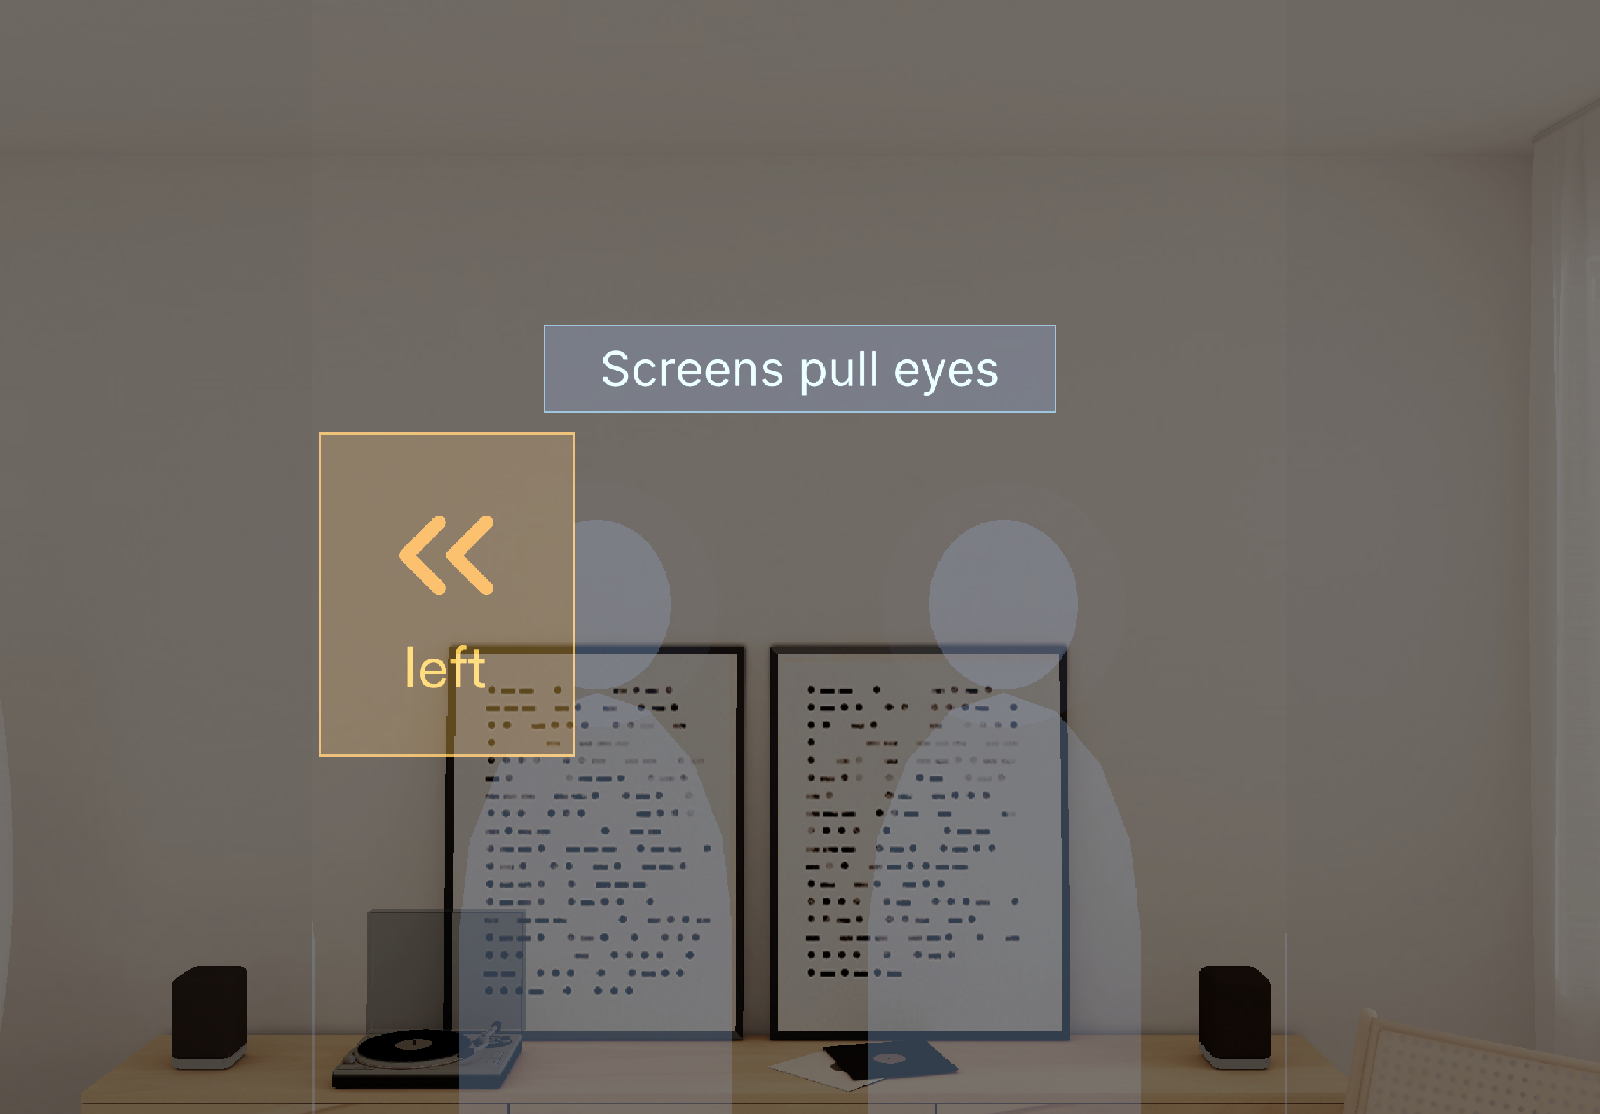
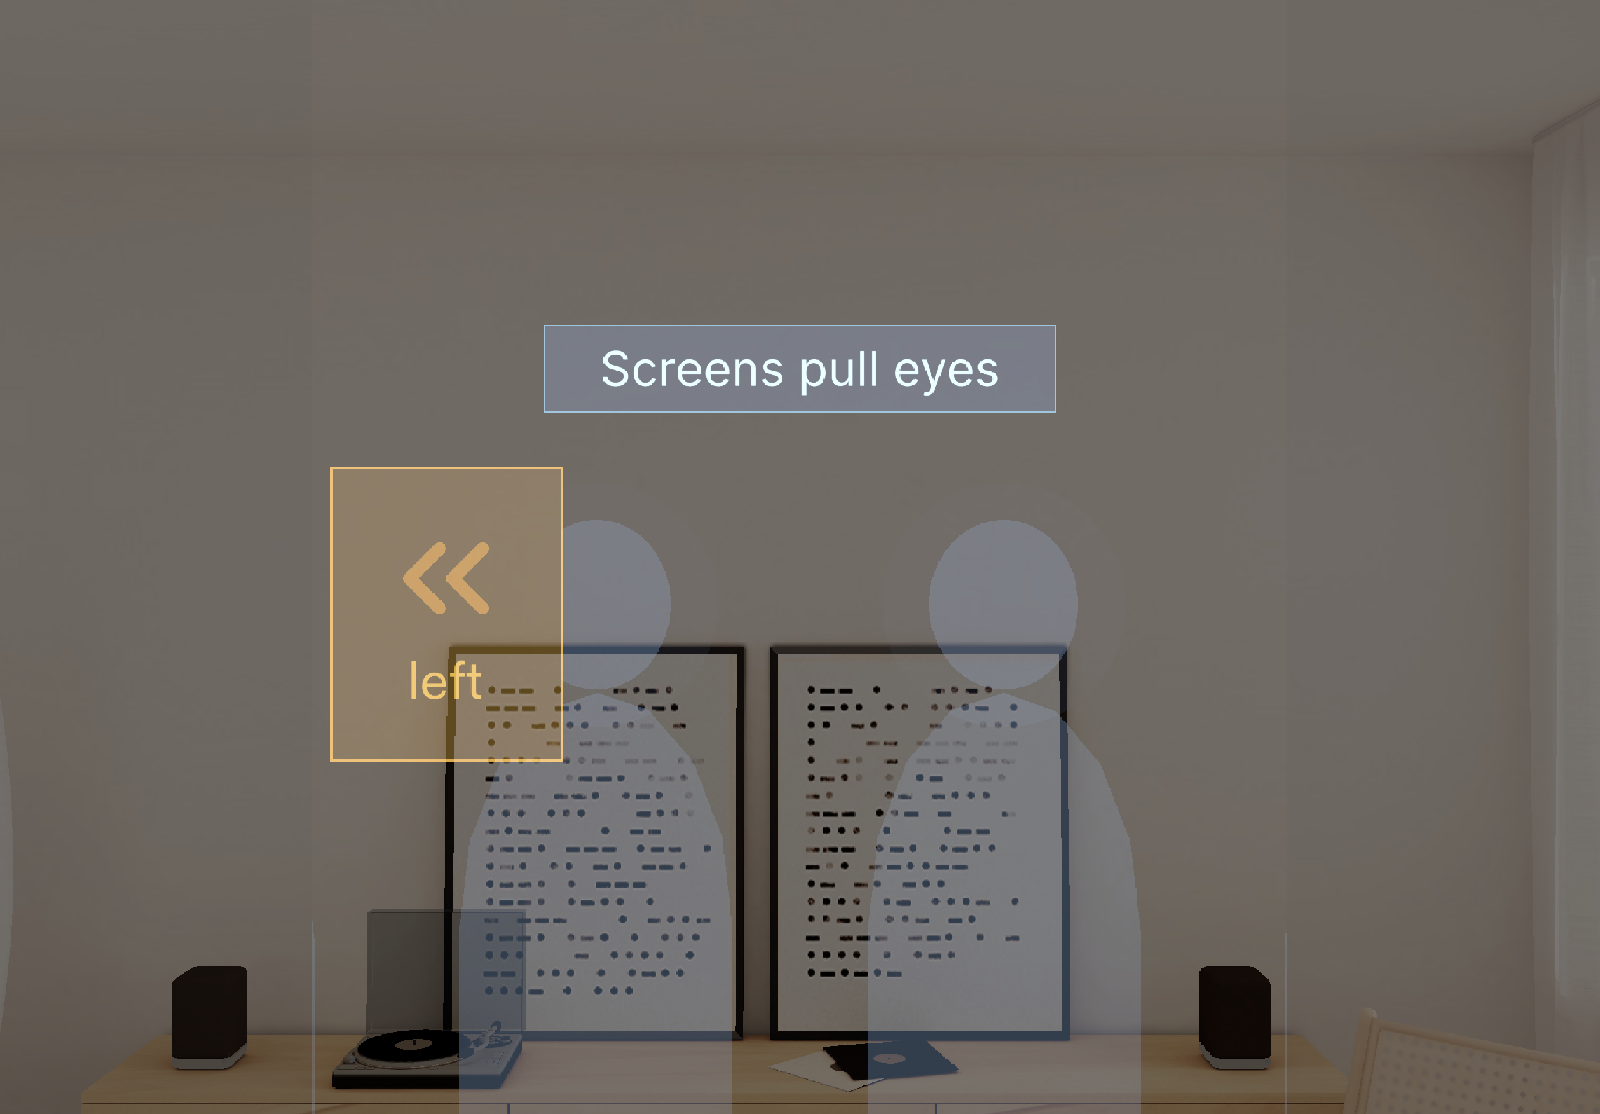
fix: nudge chevron never overlaps the podium or cue card (projected placement rule), rebuild live demo video

Changed region(s): [[0.1875, 0.3662, 0.375, 0.702], [0.25, 0.4578, 0.3125, 0.5494], [0.25, 0.5799, 0.3125, 0.6409]]

diff --git a/Assets/Scripts/EyesUpApp.ts b/Assets/Scripts/EyesUpApp.ts
@@ -21,12 +21,13 @@ import { CueCardView } from './CueCardController';
 import { getDeck } from './DeckData';
 import { chevronAlpha, chevronPulse } from './NudgeController';
 import { CameraGazeProvider, ScriptedGazeProvider, SwitchableGazeProvider } from './GazeProvider';
-import { Podium } from './Podium';
+import { PODIUM_H_CM, PODIUM_W_CM, Podium } from './Podium';
 import { SetupPanel } from './SetupPanel';
 import { StageLayout } from './StagePlacer';
 import { SummaryPanel } from './SummaryPanel';
 import { AudienceView, EyesUpSession, SessionViews } from './core/EyesUpSession';
 import { PillRect } from './core/PillHit';
+import { ChevronBox, PlaneRect, placeChevron } from './core/ChevronPlacement';
 import { podiumState } from './core/PodiumModel';
 import { Vec3Like } from './core/math';
 import { ACCENT_CYAN, BOX_AMBER, addIcon, addSurface, child, faceTowards } from './EyesUpUI';
@@ -46,6 +47,16 @@ const CHEVRON_BACK_Y = 4.2;
 const CHEVRON_X_CM = 21;
 /** Round 7: hint dropped this far so the backing's top edge sits below the pill's bottom edge. */
 const CHEVRON_DROP_CM = 6.5;
+/** Hint plane: the chevron is head-locked 100 cm ahead; panels are projected into that plane for placement. */
+const CHEVRON_PLANE_CM = 100;
+/** Clear gap kept between the chevron backing and any panel (cm in the plane). */
+const CHEVRON_PANEL_MARGIN_CM = 1.5;
+/** Backing extents about the hint origin at the largest pulse scale (1.05). */
+const CHEVRON_BOX: ChevronBox = {
+  halfW: (CHEVRON_BACK_W / 2) * 1.05,
+  below: (CHEVRON_BACK_H / 2 - CHEVRON_BACK_Y) * 1.05,
+  above: (CHEVRON_BACK_H / 2 + CHEVRON_BACK_Y) * 1.05,
+};
 const CHEVRON_TEXT = new vec4(1.0, 0.82, 0.35, 1);
 /** ≈ 1.5 cm caption at 100 cm (S3: "left" 1.5 cm). */
 const CHEVRON_CAPTION_SIZE = 150;
@@ -135,6 +146,8 @@ export class EyesUpApp extends BaseScriptComponent {
   private hintAge = 0;
   private hintTexts: [Text | null, Text | null] = [null, null];
   private hintIcons: [Image | null, Image | null] = [null, null];
+  private hintBase: [vec3, vec3] = [new vec3(0, 0, 0), new vec3(0, 0, 0)];
+  private hintHidden: [boolean, boolean] = [false, false];
   private hintColors: [vec4, vec4] = [new vec4(1, 1, 1, 1), new vec4(1, 1, 1, 1)];
 
   onAwake(): void {
@@ -143,7 +156,8 @@ export class EyesUpApp extends BaseScriptComponent {
     [this.edgeHintLeft, this.edgeHintRight].forEach((so, i) => {
       if (!so) return;
       const hp = so.getTransform().getLocalPosition();
-      so.getTransform().setLocalPosition(new vec3((i === 0 ? -1 : 1) * CHEVRON_X_CM, hp.y - CHEVRON_DROP_CM, hp.z));
+      this.hintBase[i] = new vec3((i === 0 ? -1 : 1) * CHEVRON_X_CM, hp.y - CHEVRON_DROP_CM, hp.z);
+      so.getTransform().setLocalPosition(this.hintBase[i]);
       const t = so.getComponent('Component.Text') as Text;
       if (t) {
         t.text = i === 0 ? 'left' : 'right';
@@ -305,6 +319,8 @@ export class EyesUpApp extends BaseScriptComponent {
     const p = chevronPulse(this.hintAge);
     hints.forEach((so, i) => {
       if (!so || !so.enabled) return;
+      this.placeHint(so, i);
+      if (this.hintHidden[i]) return;
       const t = this.hintTexts[i];
       const c = this.hintColors[i];
       const a = chevronAlpha(p);
@@ -315,6 +331,55 @@ export class EyesUpApp extends BaseScriptComponent {
       const s = 0.9 + 0.15 * p;
       so.getTransform().setLocalScale(new vec3(s, s, s));
     });
+  }
+
+  /** World-space rect (corners via `host`'s transform) projected into the chevron's view plane, or null if behind the camera. */
+  private projectRect(host: SceneObject, cx: number, cy: number, halfW: number, halfH: number): PlaneRect | null {
+    const wt = host.getTransform().getWorldTransform();
+    const inv = this.camera.getTransform().getInvertedWorldTransform();
+    let r: PlaneRect | null = null;
+    for (const [dx, dy] of [[-1, -1], [1, -1], [1, 1], [-1, 1]]) {
+      const p = inv.multiplyPoint(wt.multiplyPoint(new vec3(cx + dx * halfW, cy + dy * halfH, 0)));
+      if (p.z > -5) return null;
+      const k = CHEVRON_PLANE_CM / -p.z;
+      const x = p.x * k;
+      const y = p.y * k;
+      r = r ? { minX: Math.min(r.minX, x), maxX: Math.max(r.maxX, x), minY: Math.min(r.minY, y), maxY: Math.max(r.maxY, y) } : { minX: x, maxX: x, minY: y, maxY: y };
+    }
+    return r;
+  }
+
+  /** Keep the head-locked chevron clear of the podium and the cue card (core/ChevronPlacement.ts). */
+  private placeHint(so: SceneObject, i: number): void {
+    const panels: PlaneRect[] = [];
+    const podiumRoot = this.podium.getSceneObject();
+    if (podiumRoot.enabled) {
+      const r = this.projectRect(podiumRoot, 0, 0, PODIUM_W_CM / 2, PODIUM_H_CM / 2);
+      if (r) panels.push(r);
+    }
+    if (this.cueCard.enabled) {
+      const asPill = !!this.pillBg && this.pillBg.enabled && this.pillWidth > 0;
+      const r = asPill
+        ? this.projectRect(this.cueCard, 0, PILL_Y, this.pillWidth / 2, PILL_H / 2)
+        : this.projectRect(this.cueCard, 0, CARD_CENTER_Y, CARD_W / 2, CARD_H / 2);
+      if (r) panels.push(r);
+    }
+    const cam = this.camera.getComponent('Component.Camera') as Camera;
+    const halfH = CHEVRON_PLANE_CM * Math.tan(cam.fov / 2);
+    const base = this.hintBase[i];
+    const spot = placeChevron(
+      i === 0 ? 'left' : 'right',
+      { x: base.x, y: base.y },
+      CHEVRON_BOX,
+      panels,
+      { margin: CHEVRON_PANEL_MARGIN_CM, viewHalfW: halfH * cam.aspect, viewHalfH: halfH },
+    );
+    this.hintHidden[i] = spot === null;
+    if (spot === null) {
+      so.getTransform().setLocalScale(new vec3(0, 0, 0));
+      return;
+    }
+    so.getTransform().setLocalPosition(new vec3(spot.x, spot.y, base.z));
   }
 
   /**

diff --git a/Assets/Scripts/core/ChevronPlacement.ts b/Assets/Scripts/core/ChevronPlacement.ts
@@ -1,0 +1,102 @@
+/**
+ * ChevronPlacement.ts — where the amber nudge chevron sits so it never covers a panel.
+ *
+ * The chevron is head-locked (a child of the camera), so everything is measured in the camera's
+ * view plane, in cm at the chevron's own distance (100 cm ahead): +x right, +y up. Panels (podium,
+ * cue card) are projected into that plane by the Lens adapter and arrive here as plain rects.
+ * Rule: keep the base spot (view edge, per the artifact S3 mockup) when it is clear; otherwise slide
+ * outward toward the view edge; otherwise move above, then below, the blocking panels; if none of
+ * that fits inside the view, return null (the chime still plays, no chevron is drawn over a panel).
+ */
+export type Side = 'left' | 'right';
+
+export interface PlaneRect {
+  minX: number;
+  maxX: number;
+  minY: number;
+  maxY: number;
+}
+
+/** Chevron backing relative to the hint origin (cm, at its largest pulse scale). */
+export interface ChevronBox {
+  halfW: number;
+  below: number;
+  above: number;
+}
+
+export interface PlacementOptions {
+  /** Clear gap kept between the chevron backing and any panel. */
+  margin: number;
+  /** Half extent of the visible plane (cm): the backing must stay inside it. */
+  viewHalfW: number;
+  viewHalfH: number;
+}
+
+export interface PlacementResult {
+  x: number;
+  y: number;
+}
+
+function boxRect(x: number, y: number, b: ChevronBox, pad: number): PlaneRect {
+  return { minX: x - b.halfW - pad, maxX: x + b.halfW + pad, minY: y - b.below - pad, maxY: y + b.above + pad };
+}
+
+/** Edges that touch within this tolerance (cm) are not an overlap: candidates are built to sit exactly on the margin. */
+const EPS = 1e-6;
+
+export function rectsOverlap(a: PlaneRect, b: PlaneRect): boolean {
+  return a.minX < b.maxX - EPS && a.maxX > b.minX + EPS && a.minY < b.maxY - EPS && a.maxY > b.minY + EPS;
+}
+
+function inView(x: number, y: number, b: ChevronBox, o: PlacementOptions): boolean {
+  const r = boxRect(x, y, b, 0);
+  return r.minX >= -o.viewHalfW && r.maxX <= o.viewHalfW && r.minY >= -o.viewHalfH && r.maxY <= o.viewHalfH;
+}
+
+/** True when the chevron backing at (x, y) is clear of every panel by `margin` and inside the view. */
+export function isClear(x: number, y: number, b: ChevronBox, panels: readonly PlaneRect[], o: PlacementOptions): boolean {
+  if (!inView(x, y, b, o)) return false;
+  const r = boxRect(x, y, b, o.margin);
+  return !panels.some((p) => rectsOverlap(r, p));
+}
+
+/** Hint origin for `side`, starting at `base` (|x| = view-edge spot, y); null = no clear spot. */
+export function placeChevron(
+  side: Side,
+  base: PlacementResult,
+  b: ChevronBox,
+  allPanels: readonly PlaneRect[],
+  o: PlacementOptions,
+): PlacementResult | null {
+  const sign = side === 'left' ? -1 : 1;
+  const bx = sign * Math.abs(base.x);
+  // Panels outside the visible plane (e.g. the podium while looking up) cannot collide.
+  const view: PlaneRect = { minX: -o.viewHalfW, maxX: o.viewHalfW, minY: -o.viewHalfH, maxY: o.viewHalfH };
+  const panels = allPanels.filter((p) => rectsOverlap(p, view));
+  if (isClear(bx, base.y, b, panels, o)) return { x: bx, y: base.y };
+
+  // Candidates: slide outward past the panels beside the chevron, or go above / below all panels.
+  const candidates: PlacementResult[] = [];
+  let outer = Math.abs(bx);
+  for (const p of panels) {
+    const edge = sign < 0 ? -p.minX : p.maxX;
+    if (edge + o.margin + b.halfW > outer && p.maxY + o.margin > base.y - b.below && p.minY - o.margin < base.y + b.above) {
+      outer = edge + o.margin + b.halfW;
+    }
+  }
+  candidates.push({ x: sign * outer, y: base.y });
+  candidates.push({ x: bx, y: Math.max(...panels.map((p) => p.maxY)) + o.margin + b.below });
+  candidates.push({ x: bx, y: Math.min(...panels.map((p) => p.minY)) - o.margin - b.above });
+
+  // The clear candidate that moves the chevron least.
+  let best: PlacementResult | null = null;
+  let bestDist = Infinity;
+  for (const c of candidates) {
+    const d = Math.hypot(c.x - bx, c.y - base.y);
+    if (d < bestDist && isClear(c.x, c.y, b, panels, o)) {
+      best = c;
+      bestDist = d;
+    }
+  }
+  return best;
+}

diff --git a/tests/unit/ChevronPlacement.test.ts b/tests/unit/ChevronPlacement.test.ts
@@ -1,0 +1,81 @@
+import { ChevronBox, PlacementOptions, PlaneRect, isClear, placeChevron } from '../../Assets/Scripts/core/ChevronPlacement';
+
+// Same numbers as EyesUpApp: backing 15 x 19 cm, 4.2 cm above the hint origin; hint base x = 21, y = -6.5.
+const BOX: ChevronBox = { halfW: 7.9, below: 5.6, above: 14.5 };
+const BASE = { x: 21, y: -6.5 };
+const WIDE: PlacementOptions = { margin: 1.5, viewHalfW: 62, viewHalfH: 62 };
+const NARROW: PlacementOptions = { margin: 1.5, viewHalfW: 33, viewHalfH: 25 };
+
+// Podium 34 x 11 cm at 55 cm, projected to the 100 cm plane: 62 x 20 cm, centered in view.
+const PODIUM: PlaneRect = { minX: -31, maxX: 31, minY: -10, maxY: 10 };
+
+describe('placeChevron', () => {
+  it('regression: centered pill in a narrow view (aspect 0.875) steps down just clear of the pill', () => {
+    const pill: PlaneRect = { minX: -15.23, maxX: 15.23, minY: 8.6, maxY: 13.8 };
+    const podiumOffscreen: PlaneRect = { minX: -32.5, maxX: 32.5, minY: -66.5, maxY: -43.7 };
+    const dims: PlacementOptions = { margin: 1.5, viewHalfW: 28.9, viewHalfH: 33.06 };
+    for (const side of ['left', 'right'] as const) {
+      const r = placeChevron(side, BASE, BOX, [podiumOffscreen, pill], dims)!;
+      expect(r).not.toBeNull();
+      expect(Math.abs(r.x)).toBeCloseTo(21, 5);
+      expect(r.y).toBeLessThan(-6.5);
+      expect(r.y).toBeGreaterThan(-9);
+      expect(isClear(r.x, r.y, BOX, [pill], dims)).toBe(true);
+    }
+  });
+
+
+  it('regression: a centered pill (15.2 x 5.2 cm in the plane) pushes the chevron out, not away (no float tie)', () => {
+    const pill: PlaneRect = { minX: -15.2, maxX: 15.2, minY: 8.6, maxY: 13.8 };
+    const dims: PlacementOptions = { margin: 1.5, viewHalfW: 33.1, viewHalfH: 33.1 };
+    for (const side of ['left', 'right'] as const) {
+      const r = placeChevron(side, BASE, BOX, [pill], dims);
+      expect(r).not.toBeNull();
+      expect(isClear(r!.x, r!.y, BOX, [pill], dims)).toBe(true);
+    }
+  });
+
+  it('keeps the view-edge spot when no panel is near', () => {
+    expect(placeChevron('right', BASE, BOX, [], WIDE)).toEqual({ x: 21, y: -6.5 });
+    expect(placeChevron('left', BASE, BOX, [], WIDE)).toEqual({ x: -21, y: -6.5 });
+  });
+
+  it('regression: the right chevron no longer covers the podium panel (it slides outward)', () => {
+    const r = placeChevron('right', BASE, BOX, [PODIUM], WIDE)!;
+    expect(r.x).toBeGreaterThanOrEqual(PODIUM.maxX + WIDE.margin + BOX.halfW);
+    expect(isClear(r.x, r.y, BOX, [PODIUM], WIDE)).toBe(true);
+  });
+
+  it('mirrors for the left side', () => {
+    const r = placeChevron('left', BASE, BOX, [PODIUM], WIDE)!;
+    expect(r.x).toBeLessThanOrEqual(PODIUM.minX - WIDE.margin - BOX.halfW);
+  });
+
+  it('moves above or below the panel (the nearer clear side) when the view edge is too close to slide', () => {
+    const r = placeChevron('right', BASE, BOX, [PODIUM], { margin: 1.5, viewHalfW: 45, viewHalfH: 45 })!;
+    expect(r.y - BOX.below > PODIUM.maxY || r.y + BOX.above < PODIUM.minY).toBe(true);
+    expect(isClear(r.x, r.y, BOX, [PODIUM], { margin: 1.5, viewHalfW: 45, viewHalfH: 45 })).toBe(true);
+  });
+
+  it('returns null rather than overlap when nothing fits (narrow device view)', () => {
+    expect(placeChevron('right', BASE, BOX, [PODIUM], NARROW)).toBeNull();
+    expect(placeChevron('left', BASE, BOX, [PODIUM], NARROW)).toBeNull();
+  });
+
+  it('ignores panels that are far off to the other side', () => {
+    const farLeft: PlaneRect = { minX: -60, maxX: -40, minY: -10, maxY: 10 };
+    expect(placeChevron('right', BASE, BOX, [farLeft], WIDE)).toEqual({ x: 21, y: -6.5 });
+  });
+
+  it('never returns a spot that overlaps any panel, across panel offsets and both sides', () => {
+    for (let cx = -50; cx <= 50; cx += 5) {
+      for (let cy = -20; cy <= 20; cy += 10) {
+        const p: PlaneRect = { minX: cx - 31, maxX: cx + 31, minY: cy - 10, maxY: cy + 10 };
+        for (const side of ['left', 'right'] as const) {
+          const r = placeChevron(side, BASE, BOX, [p], WIDE);
+          if (r) expect(isClear(r.x, r.y, BOX, [p], WIDE)).toBe(true);
+        }
+      }
+    }
+  });
+});

diff --git a/typings/lens-studio-shim.d.ts b/typings/lens-studio-shim.d.ts
@@ -66,7 +66,18 @@ declare enum VerticalOverflow {
   Shrink,
 }
 
+declare class mat4 {
+  multiplyPoint(p: vec3): vec3;
+}
+
+declare class Camera {
+  fov: number;
+  aspect: number;
+}
+
 declare class Transform {
+  getWorldTransform(): mat4;
+  getInvertedWorldTransform(): mat4;
   getWorldPosition(): vec3;
   setWorldPosition(p: vec3): void;
   getLocalPosition(): vec3;

diff --git a/Assets/Scripts/Podium.ts b/Assets/Scripts/Podium.ts
@@ -19,8 +19,10 @@ export interface PodiumHandlers {
 }
 
 /** Pass 3 (demo legibility): 30 → 34 cm wide so the larger labels fit; buttons 7.2 × 3.6 cm (≥ 3 cm). */
-const W = 34;
-const H = 11;
+export const PODIUM_W_CM = 34;
+export const PODIUM_H_CM = 11;
+const W = PODIUM_W_CM;
+const H = PODIUM_H_CM;
 const DIST = 55;
 
 @component

diff --git a/docs/spec-matrix.md b/docs/spec-matrix.md
@@ -141,3 +141,13 @@ Live headless MCP: 8 LEAF scenarios PASSED, no E/F lines. `npm run check`: 130/1
 | R7-S5 | 07 S5 | Summary and Re-place buttons clear the picture frames | match | SUMMARY_ABOVE_EYES_CM 17 -> 20; 06-summary.png shows about 20 px of wall between the panel border and the frames |
 | R7-S2 | win | gallery shows the larger pill clear of the halo | match | .local/screenshots/01-halo.png regenerated from the new video (gallery moment 0.8 s into the halo segment) |
 | R7-S6 | 07 S6 | demo video matches the current build | match | .local/video/eyes-up-demo.mp4 (2:39, not committed) rebuilt from a fresh all-live real-camera capture (nudge, podium, cue, Summary all live; no stills); narration says 8 scenarios, 130 tests, 1:40 run with 16 % left. Previous file kept as eyes-up-demo-prev.mp4 |
+
+## Polish round 8 (2026-11-01, chevron never covers a panel)
+
+Live headless MCP: 8 LEAF scenarios PASSED, no E/F lines. `npm run check`: 139/139 tests, typecheck and lint clean.
+
+| id | artifact section | expected | status | evidence |
+|---|---|---|---|---|
+| R8-S3 | 07 S3 | nudge chevron stays at the view edge and never overlaps the podium, cue card/pill or any panel | match | core/ChevronPlacement.ts (placement rule, tests/unit/ChevronPlacement.test.ts): panels are projected into the chevron's view plane each frame; the chevron keeps its edge spot, else takes the nearest clear spot beside, above or below, else is hidden (chime still plays). Fixes the right chevron covering the podium's right edge in the video |
+| R8-S6 | 07 S6 | demo video matches the current build | match | `.local/video/eyes-up-demo.mp4` (2:45, not committed) re-recorded live; frames checked around every nudge (left and right chevrons at the audience, beside/below the podium, beside the pill and card); narration says 1:55 run with 17 % left. Previous file kept as eyes-up-demo-prev.mp4 |
+| R8-S3b | 07 S3 | nudge still | match | 03-nudge-chevron.png / walkthrough 03-nudge.png recaptured: chevron sits 0.8 cm lower, clear of the centered pill |
